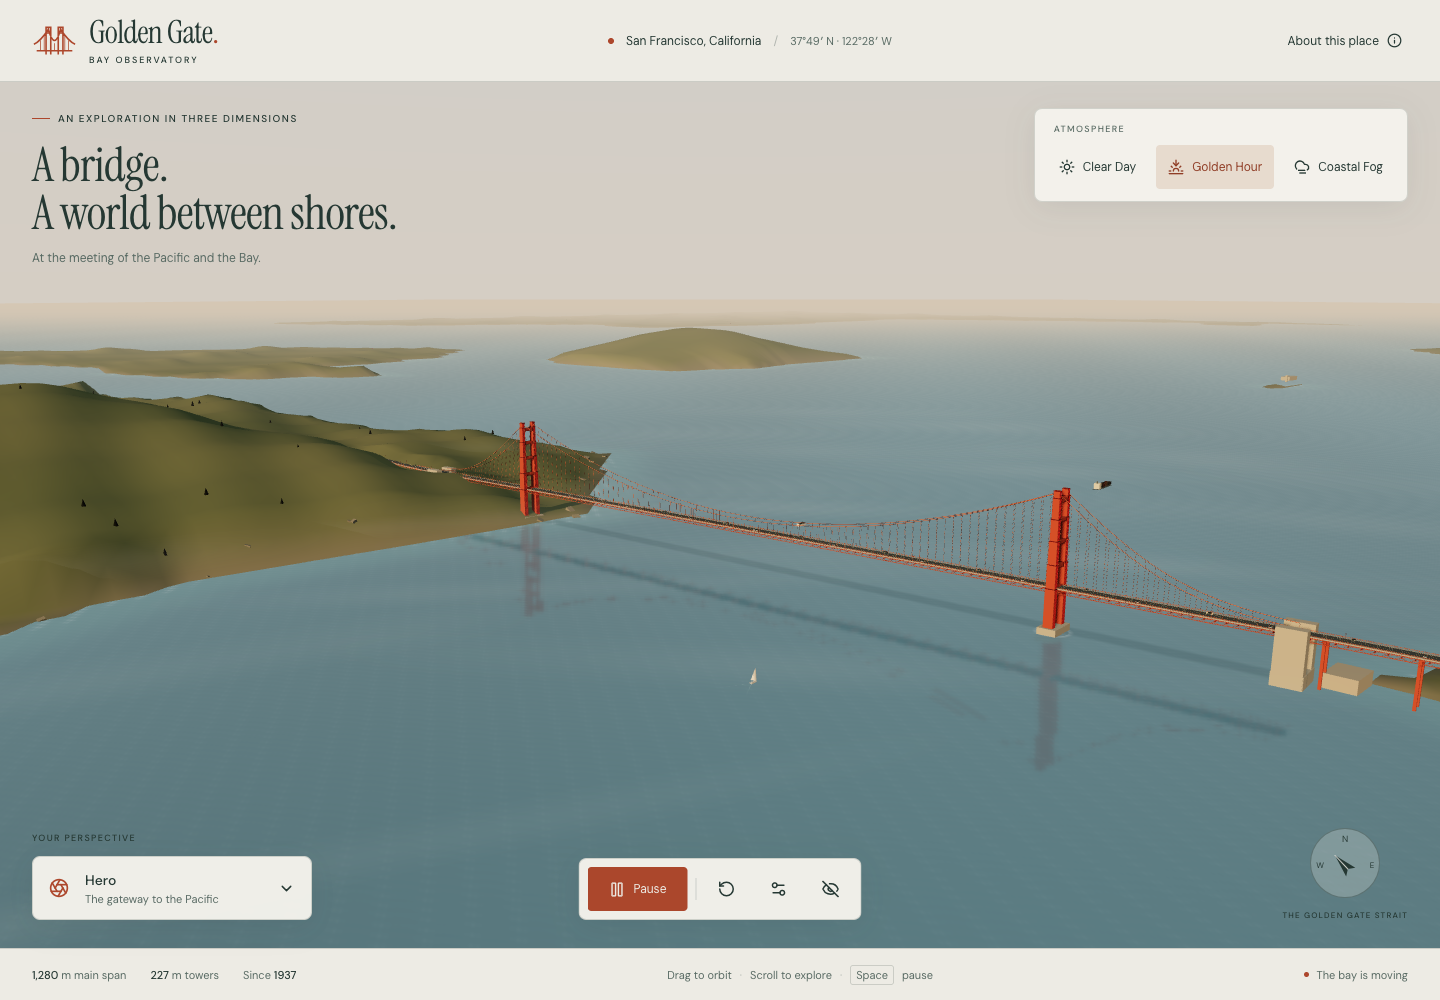
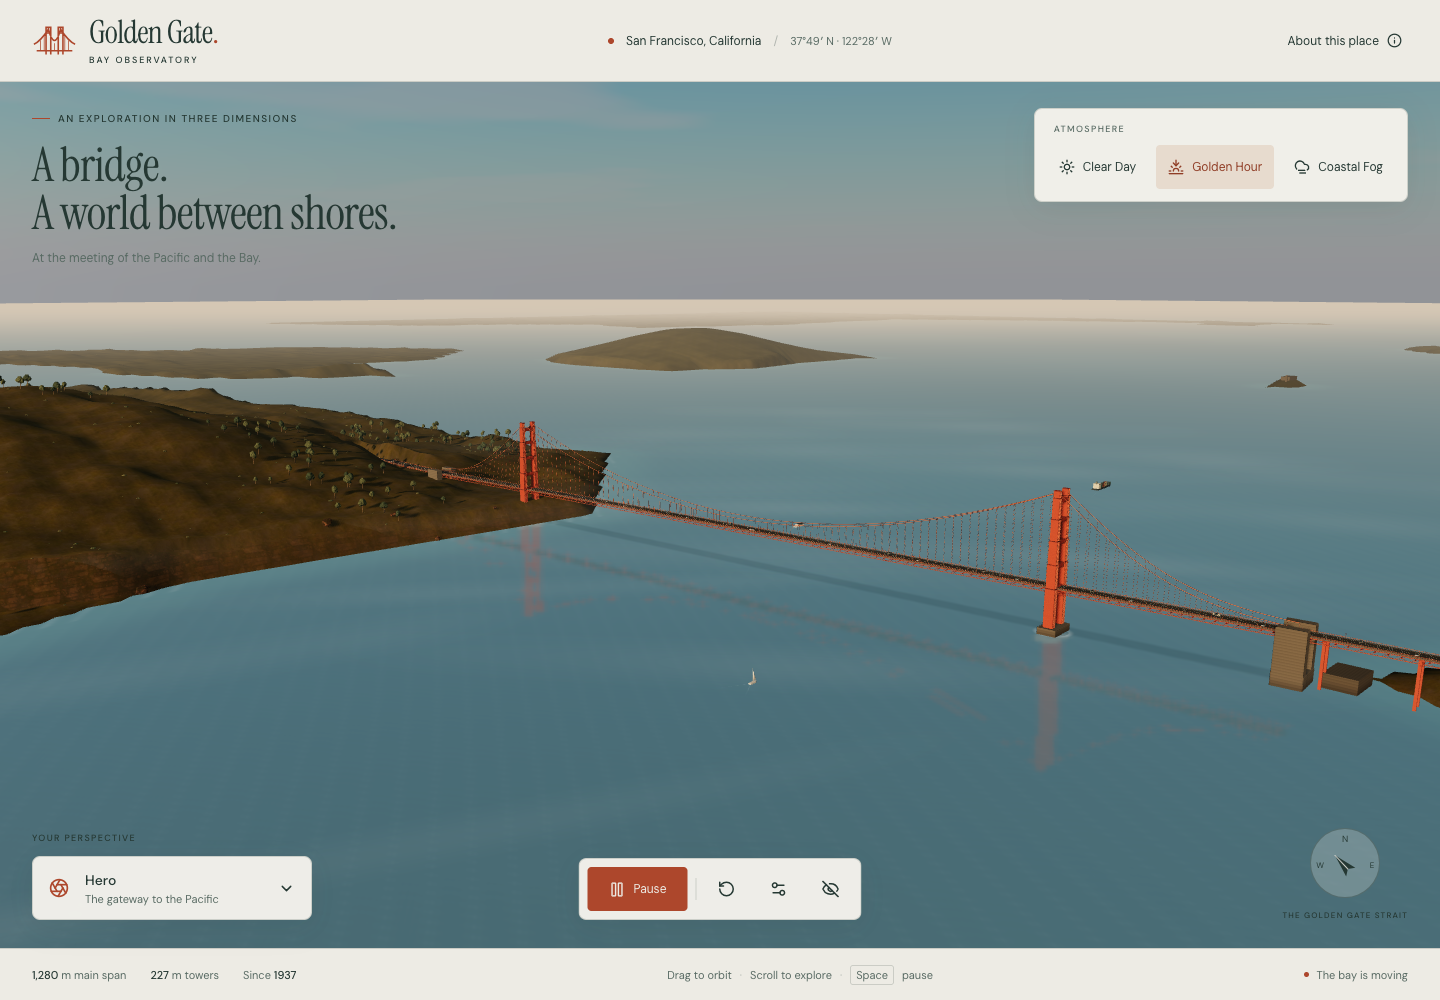
docs: record graphics deployment verification

diff --git a/docs/VALIDATION.md b/docs/VALIDATION.md
@@ -48,9 +48,9 @@ The actual repository is [Hostlife22/golden-gate](https://github.com/Hostlife22/
 
 The repository was renamed by its owner from `js` to `golden-gate` during publication. The remote, Vite production base, preview/E2E URLs, capture script, package metadata, source link, and documentation were updated together. All seven unit tests and six browser scenarios passed again with the new base.
 
-Publication before the graphics refinement: `e6b0ccc671208ba4180db779e8a32cd358f3b2f6`. [Ubuntu CI passed](https://github.com/Hostlife22/golden-gate/actions/runs/37118246587), then [GitHub Pages deployed that revision](https://github.com/Hostlife22/golden-gate/actions/runs/37118398327).
+Published graphics revision: `f8ee9515c829b8a66cd40bc79390225ecf469e7e`. [Ubuntu CI passed](https://github.com/Hostlife22/golden-gate/actions/runs/37120230000), then [GitHub Pages deployed that revision](https://github.com/Hostlife22/golden-gate/actions/runs/37120259363).
 
-Before the graphics refinement, on 2026-10-03 at 11:04 UTC, Playwright Chromium checked the real [public URL](https://hostlife22.github.io/golden-gate/): HTTP 200, the current production entry/lazy scene, local font readiness, and the favicon. Both shared clocks remained frozen during pause, weather changed while paused, and animation resumed. There were zero browser console errors, missing resources, or failed requests. The URL without diagnostic query parameters also returned HTTP 200 and the current entry. Evidence: [deployment.json](artifacts/deployment.json) and [deployed Hero screenshot](artifacts/deployed-hero.png).
+On 2026-10-03 at 11:38 UTC, Playwright Chromium checked the real [public URL](https://hostlife22.github.io/golden-gate/): HTTP 200, the current production entry/lazy scene, all 12 local PBR texture maps, local font readiness, and the favicon. Both shared clocks remained frozen during pause, weather changed while paused, and animation resumed. There were zero browser console errors, missing resources, or failed requests. The URL without diagnostic query parameters also returned HTTP 200 and the current entry. Evidence: [deployment.json](artifacts/deployment.json) and [deployed Hero screenshot](artifacts/deployed-hero.png).
 
 No backend, API key, externally fetched runtime map, or CDN font is needed.
 

diff --git a/docs/VISUAL_REVIEW.md b/docs/VISUAL_REVIEW.md
@@ -20,7 +20,7 @@ Date: 2026-10-03. Screenshots were captured from the production build, opened, a
 
 [Motion recording](artifacts/observatory-motion.webm) shows the shared live scene, Hero → Waterline → Tower Detail flights, a weather transition, pause/resume, passing traffic/vessels, and evolving water/wakes. The recording was inspected using [sampled video frames](artifacts/motion-review.jpg); no prerecorded imagery is substituted for the application scene.
 
-The [deployed Hero capture](artifacts/deployed-hero.png) was also opened and inspected after the repository rename and successful publication at `/golden-gate/`; it confirms the same scene and controls load from the real public URL. [Deployment evidence](artifacts/deployment.json) records the checked revision and resource results.
+The [deployed Hero capture](artifacts/deployed-hero.png) was also opened and inspected after the graphics refinement and successful publication at `/golden-gate/`; it confirms the same scene and controls load from the real public URL. [Deployment evidence](artifacts/deployment.json) records the checked revision and resource results.
 
 ## Corrections made during review
 
